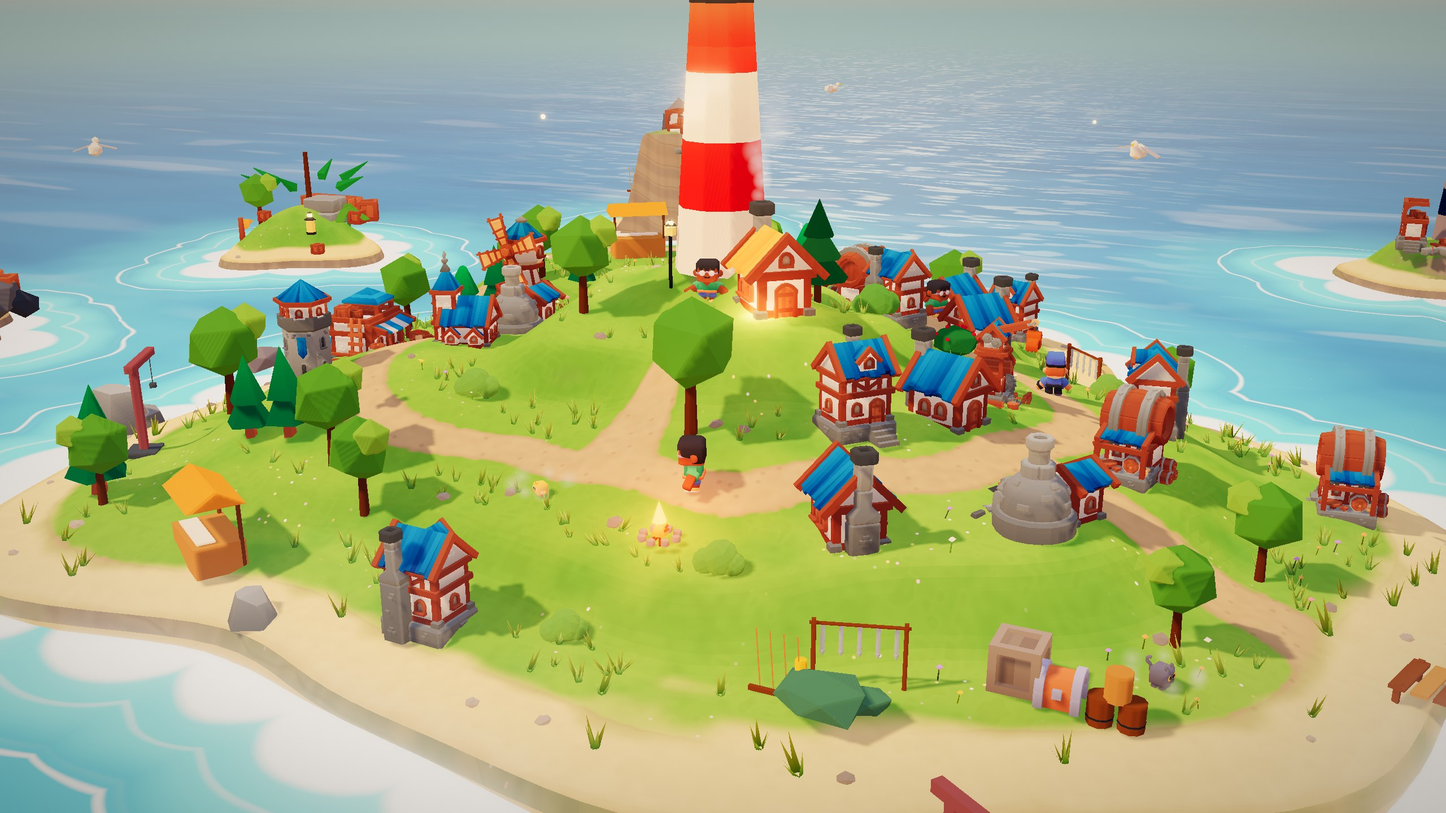
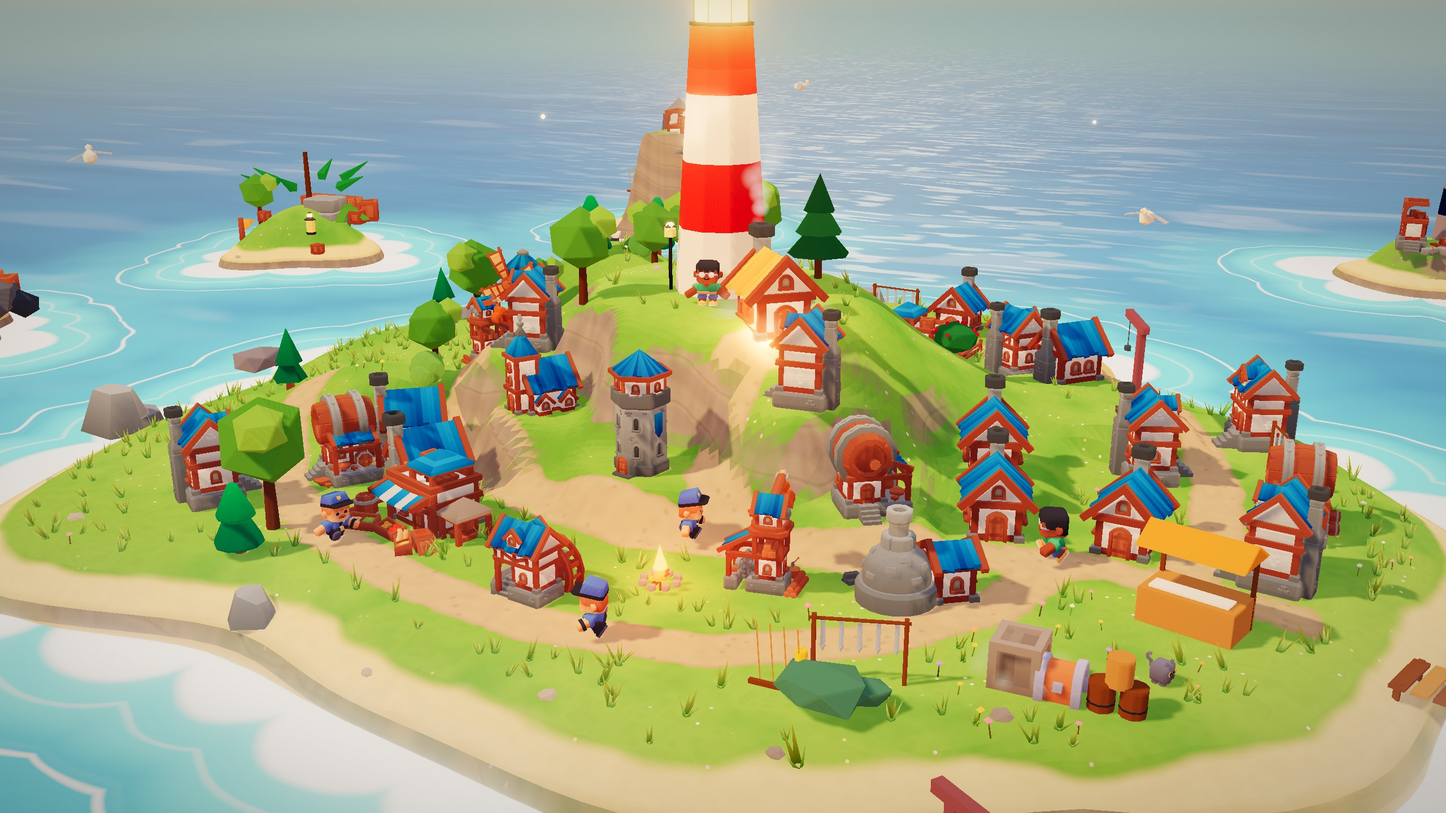
docs(art): the second round on the island, new after pictures and share picture
Claude-Session: https://claude.ai/code/session_015G3Cr6zpWZMwtT3YcVhCdN

diff --git a/docs/superpowers/specs/2026-11-27-art-upgrade.md b/docs/superpowers/specs/2026-11-27-art-upgrade.md
@@ -49,6 +49,16 @@
 - 房子建在坡上时往地里"挖"一点，不会有一角悬空。树也长到坡上。
 - 路：海边一条滨海路，镇上一条街，码头到镇子、镇子到灯塔各有一条上坡路。
 
+### 第二次反馈：还是一层一层
+
+作者又说了一遍同样的话。原因：上面那一版只是把石墙磨成了缓坡，高度仍然只按"离中心多远"来定，街道是一个环，房子绕岛排成几圈。
+
+第二次改法（`src/world/homeplan.ts` 是岛的规划图）：
+- 地形是真的地形：山顶（灯塔）、向后延伸到海边的山脊（尽头是海崖）、左侧小丘、右侧矮坡、一条山沟、前面一个沙湾。
+- 路不再是环：一条路从码头蜿蜒上山到灯塔，一条港口街沿前岸绕到西侧，一条小路绕东侧到后岸，一条沿山腰。
+- 房子沿路成片，门朝路，各自一小块宅基地（盖了房才平整）。行人沿路来回走。
+- 树林在山脊和小丘上，村子周围是空地。
+
 ## 实际做了什么
 
 | 部分 | 内容 | 主要文件 |
@@ -72,6 +82,7 @@
 
 ## 没做和要知道的
 
+- 独立复查没有做成：请的检查员中途因用量限制停了，没有给出结果。
 - **流畅度**：没有显卡的软件渲染下，满级小镇每秒画的帧数比改之前少约 20%（开局时少约 14%）。真机上没测过。如果手机上卡，先减的是：树和草的数量（`greenery.ts`）、阴影贴图大小、泛光。
 - 旧的 2D 手绘图（`src/ui/art/scene.ts`、`net.ts`、`chest.ts`、`tower.ts`、`boat.ts` 里的船和码头）游戏里已经不用了，文件和它们的测试还在，可以删。
 - 材料图标是作者自己的图，没动。
